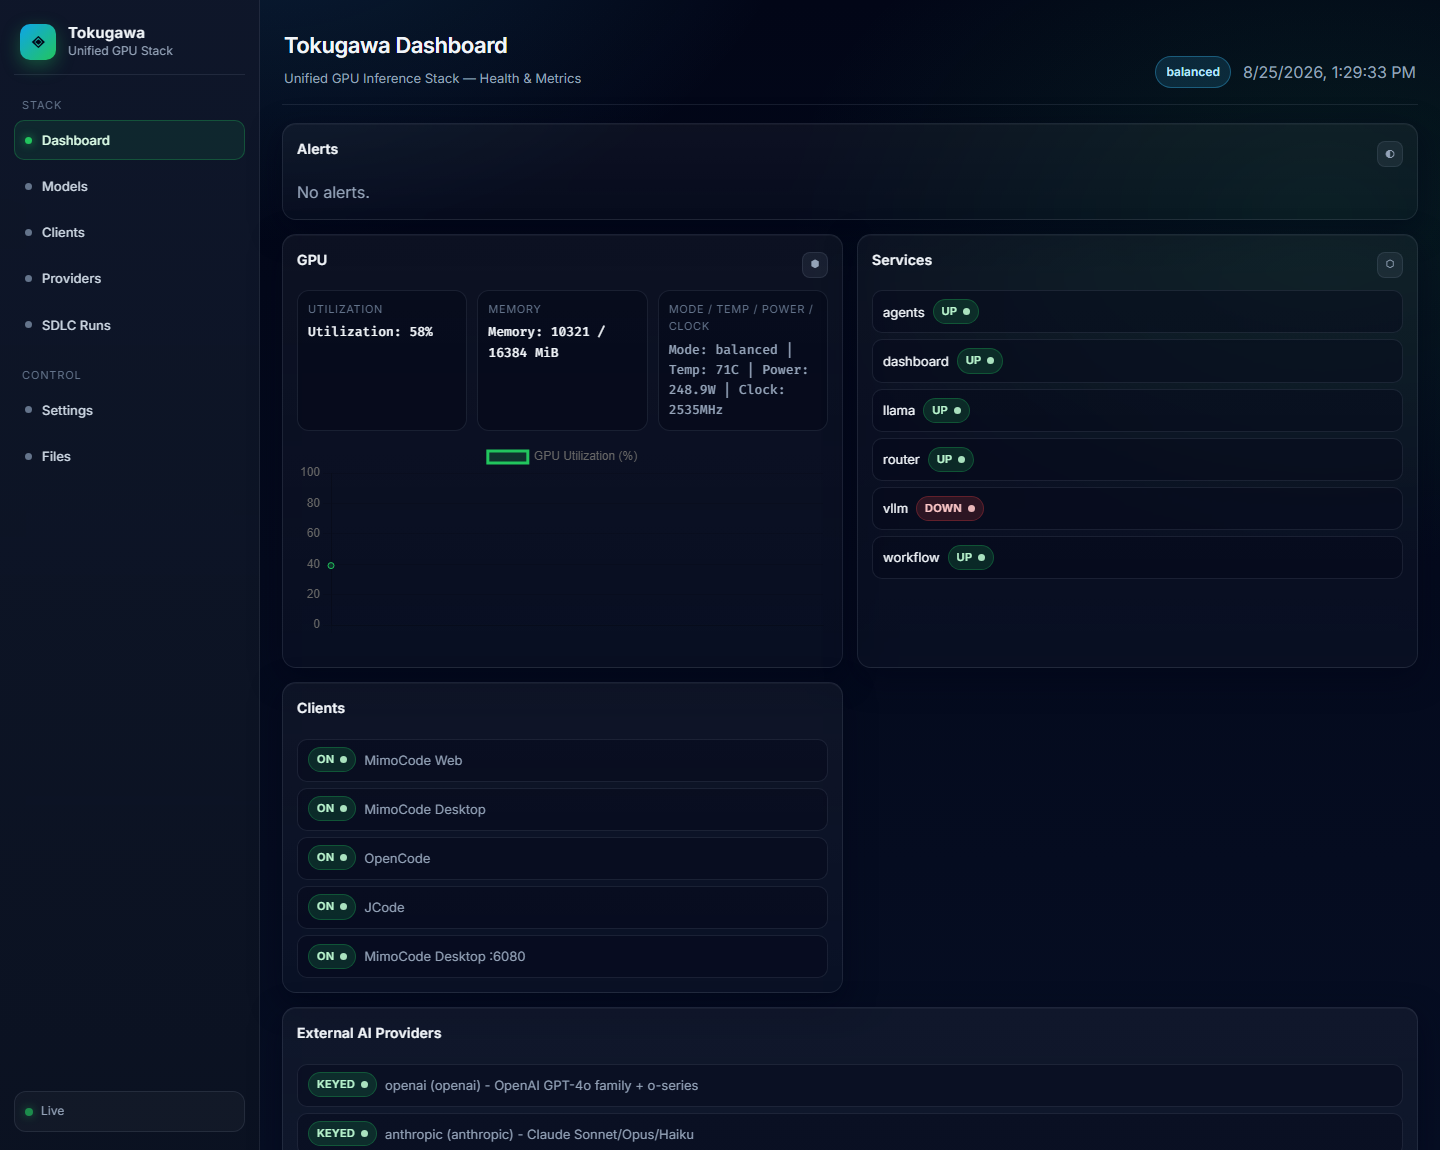
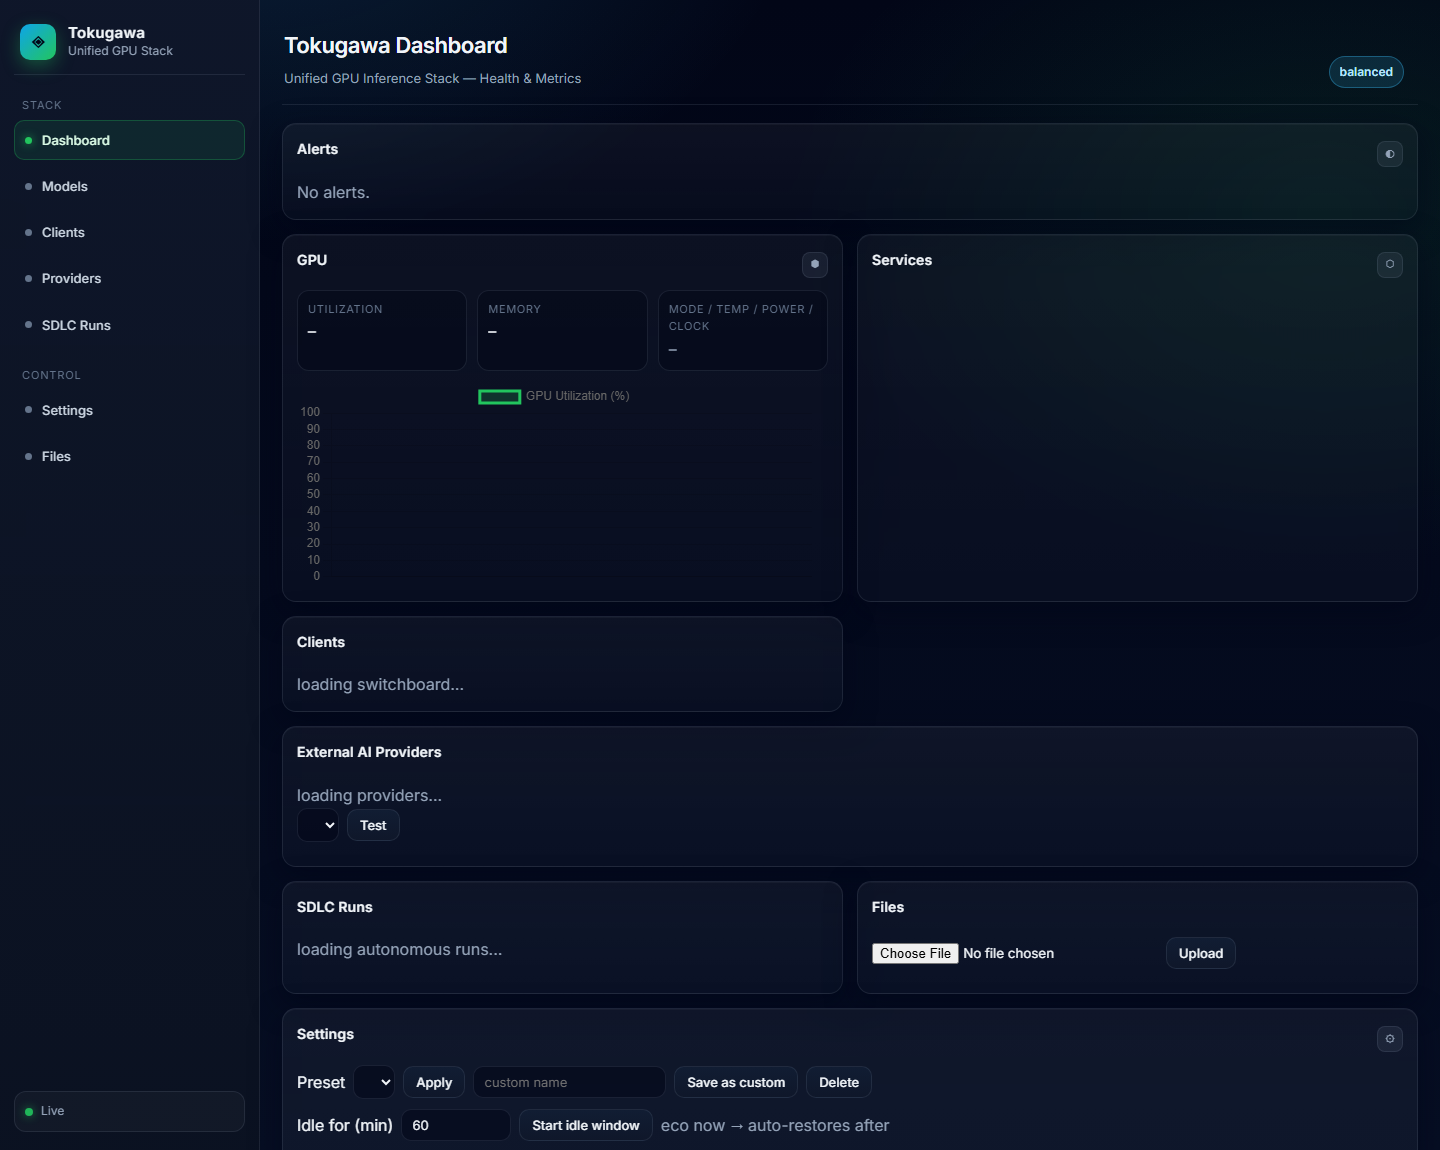
docs: expand gallery with FreeToken GitHub + desktop, update PROVIDERS with local freetoken step-by-step, polish dashboard screenshots (bento + sidebar)

diff --git a/README.md b/README.md
@@ -84,15 +84,15 @@ The stack answers one question: *how do I run capable coding models on my own GP
 | ![Providers panel](docs/screenshots/dashboard-providers.png) | ![CLI providers](docs/screenshots/cli-providers.png) |
 | 21+ hosted APIs as backends: KEYED/NO KEY badges, fallback flags, Test pings | Real `providers` listing + `provider-test openai` |
 
-| FreeToken Edge MoE (290B+ on consumer GPUs) | Dashboard - Full-page view |
+| FreeToken @ GitHub (7.2k★) | FreeToken Desktop Console |
 |---|---|
-| ![FreeToken Desktop](docs/screenshots/freetoken-desktop.png) | ![Dashboard full](docs/screenshots/dashboard-full.png) |
+| ![FreeToken GitHub](docs/screenshots/freetoken-github.png) | ![FreeToken Desktop](docs/screenshots/freetoken-desktop.png) |
+| Repo overview — Apache-2.0, 290B MoE | Console UI — edge runtime on RTX 30/40/50 |
 
-| TokugawaOS GRUB Boot Menu | Live ISO |
+| Full Dashboard (every panel) | TokugawaOS GRUB Boot Menu |
 |---|---|
-| ![Boot menu](docs/screenshots/boot-menu.png) | `live/build-live.sh` — GRUB entries: Install (wipes disk) / Try Live / Rescue |
-| Rendered preview of the ISO's boot menu (GRUB) | Built on any Ubuntu host — see [live/README.md](live/README.md) |
-| FreeToken desktop console - frontier MoE on RTX 30/40/50 (7.2k★) | Every panel in one scroll: alerts, GPU, services, clients, providers, runs, files, settings, shelf |
+| ![Dashboard full](docs/screenshots/dashboard-full.png) | ![Boot menu](docs/screenshots/boot-menu.png) |
+| Alerts, GPU, services, clients, providers, runs, files, settings, model shelf | Rendered preview of the ISO's boot menu (GRUB) — `live/build-live.sh` — Install / Try Live / Rescue |
 
 > Dashboard shots use sample telemetry; on a live box the same panels stream real nvidia-smi data, router metrics, and idle-window state. FreeToken desktop image from [FlashML-org/FreeToken](https://github.com/FlashML-org/FreeToken) (Apache-2.0).
 
@@ -382,6 +382,8 @@ curl -X POST localhost:8010/route -H "Content-Type: application/json" \
 - Streaming: openai-style = true SSE; anthropic/gemini = single-frame
 
 Full per-provider setup (env vars, model slugs, custom/Azure/vLLM entries, cost guardrails): [docs/PROVIDERS.md](docs/PROVIDERS.md).
+
+**Local FreeToken (edge MoE) in 30s:** `docker compose --profile freetoken up -d` -> `curl http://localhost:9100/v1/models` -> `model: "freetoken/deepseek-ai/DeepSeek-V4-Flash"` routes automatically as fallback when healthy. Native: `uv pip install "freetoken[accel]" && freetoken serve --model deepseek-ai/DeepSeek-V4-Flash`. See detailed steps in [docs/PROVIDERS.md#FreeToken-Local-Setup](docs/PROVIDERS.md).
 
 ## 10. Configuration Reference
 

diff --git a/docs/PROVIDERS.md b/docs/PROVIDERS.md
@@ -114,6 +114,38 @@ curl -N -X POST localhost:8010/route -H "Content-Type: application/json" \
   -d '{"prompt":"Write a haiku about GPUs","model":"openai/gpt-4o-mini","stream":true}'
 ```
 
+
+## FreeToken Local Setup (step-by-step)
+
+FreeToken is keyless and auto-fallbacks when healthy.
+
+**Option A - Docker (compose users):**
+```bash
+docker compose --profile freetoken up -d
+curl -s http://localhost:9100/v1/models | jq
+```
+
+**Option B - Native (desktop app or CLI):**
+```bash
+# Desktop app: https://www.flashml.ai/
+# CLI:
+uv pip install "freetoken[accel]"
+freetoken serve --model deepseek-ai/DeepSeek-V4-Flash --port 9100
+```
+
+**Models:** deepseek-ai/DeepSeek-V4-Flash (default), Qwen/Qwen3.6-35B-A3B, zai-org/GLM-5.2 - set via FREETOKEN_MODEL env.
+
+**Router wiring (automatic):**
+- Preset base_url http://localhost:9100/v1 (compose override: http://freetoken:9100/v1 via FREETOKEN_BASE_URL).
+- auto_fallback_when_healthy true - every local chain appends freetoken/<model> when health probe passes; cached 30s.
+- Explicit routing: model "freetoken/deepseek-ai/DeepSeek-V4-Flash"
+
+**Verify:**
+```bash
+curl -s http://localhost:8010/models | jq "keys | map(select(startswith("freetoken/")))"
+curl -X POST http://localhost:8010/route -H "Content-Type: application/json" -d "{"prompt":"haiku","model":"freetoken/deepseek-ai/DeepSeek-V4-Flash"}" | jq .response.content
+```
+
 ## Dashboard & CLI
 
 - Dashboard → **External AI Providers** panel: keyed/no-key badges,
